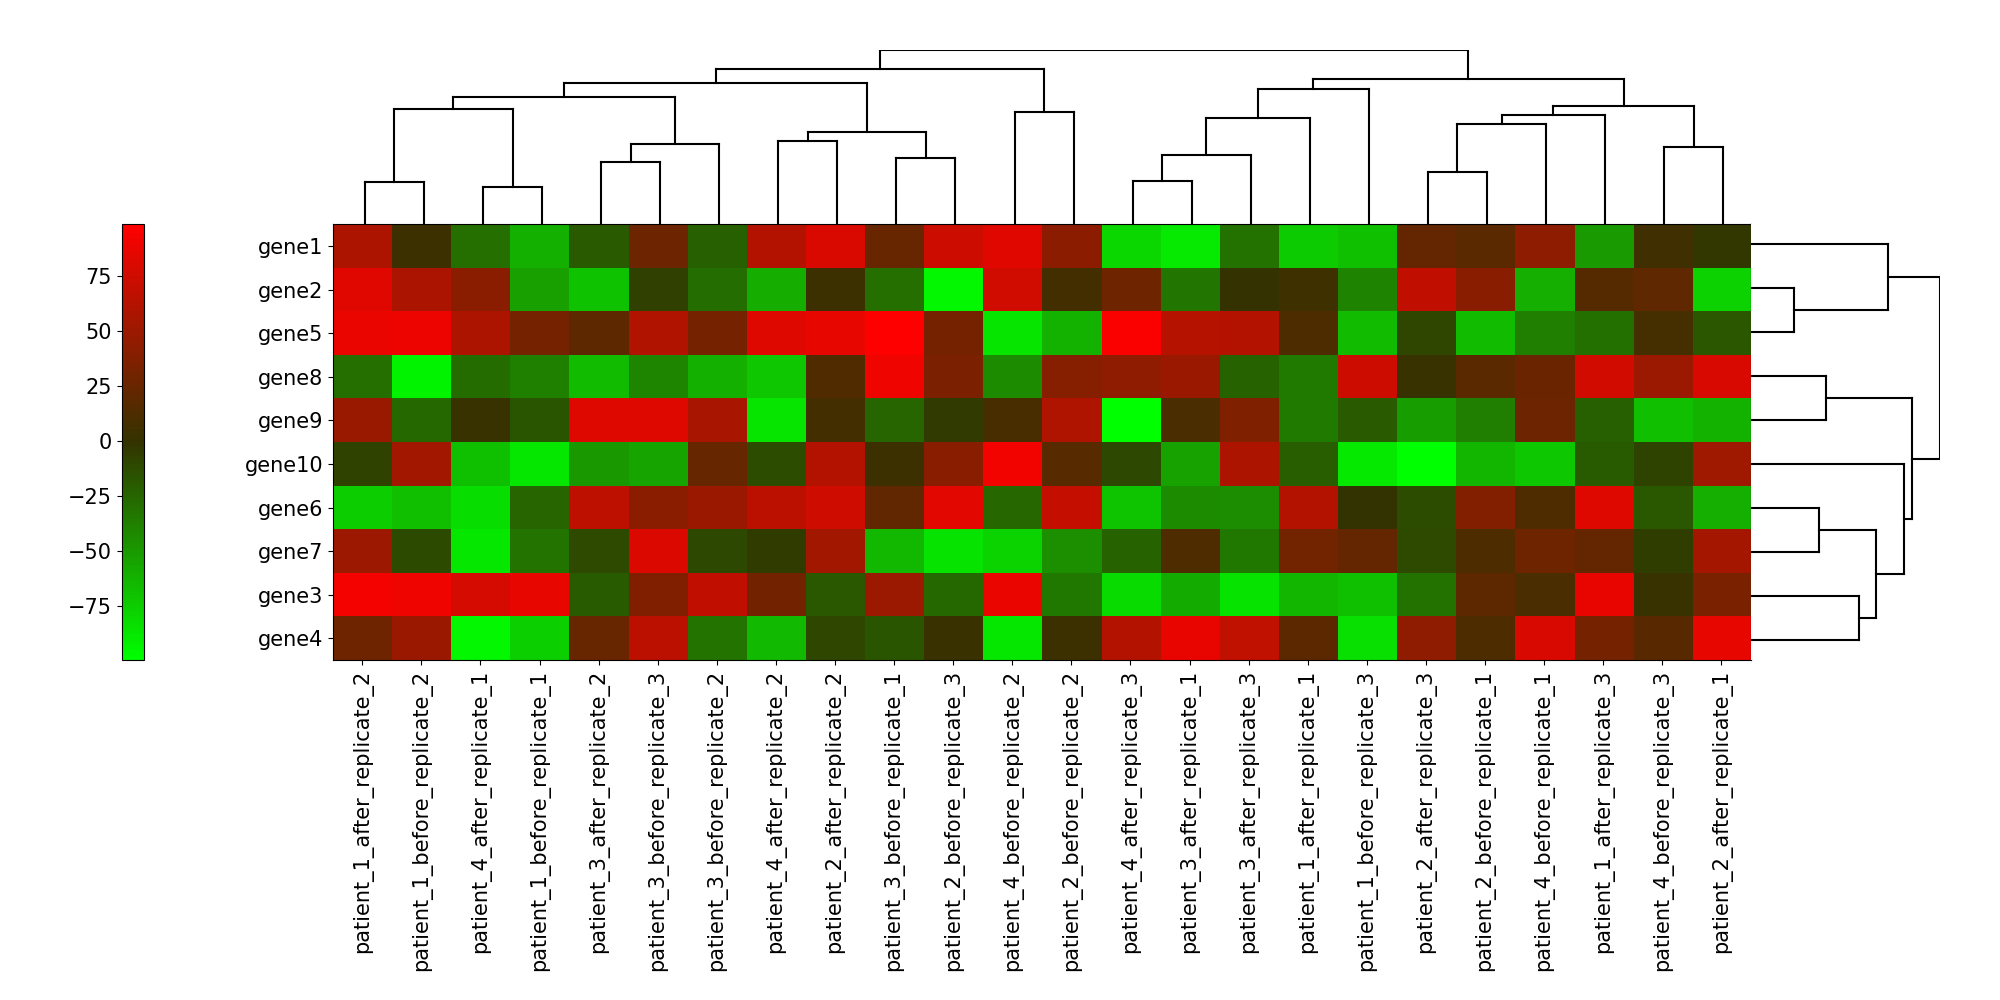
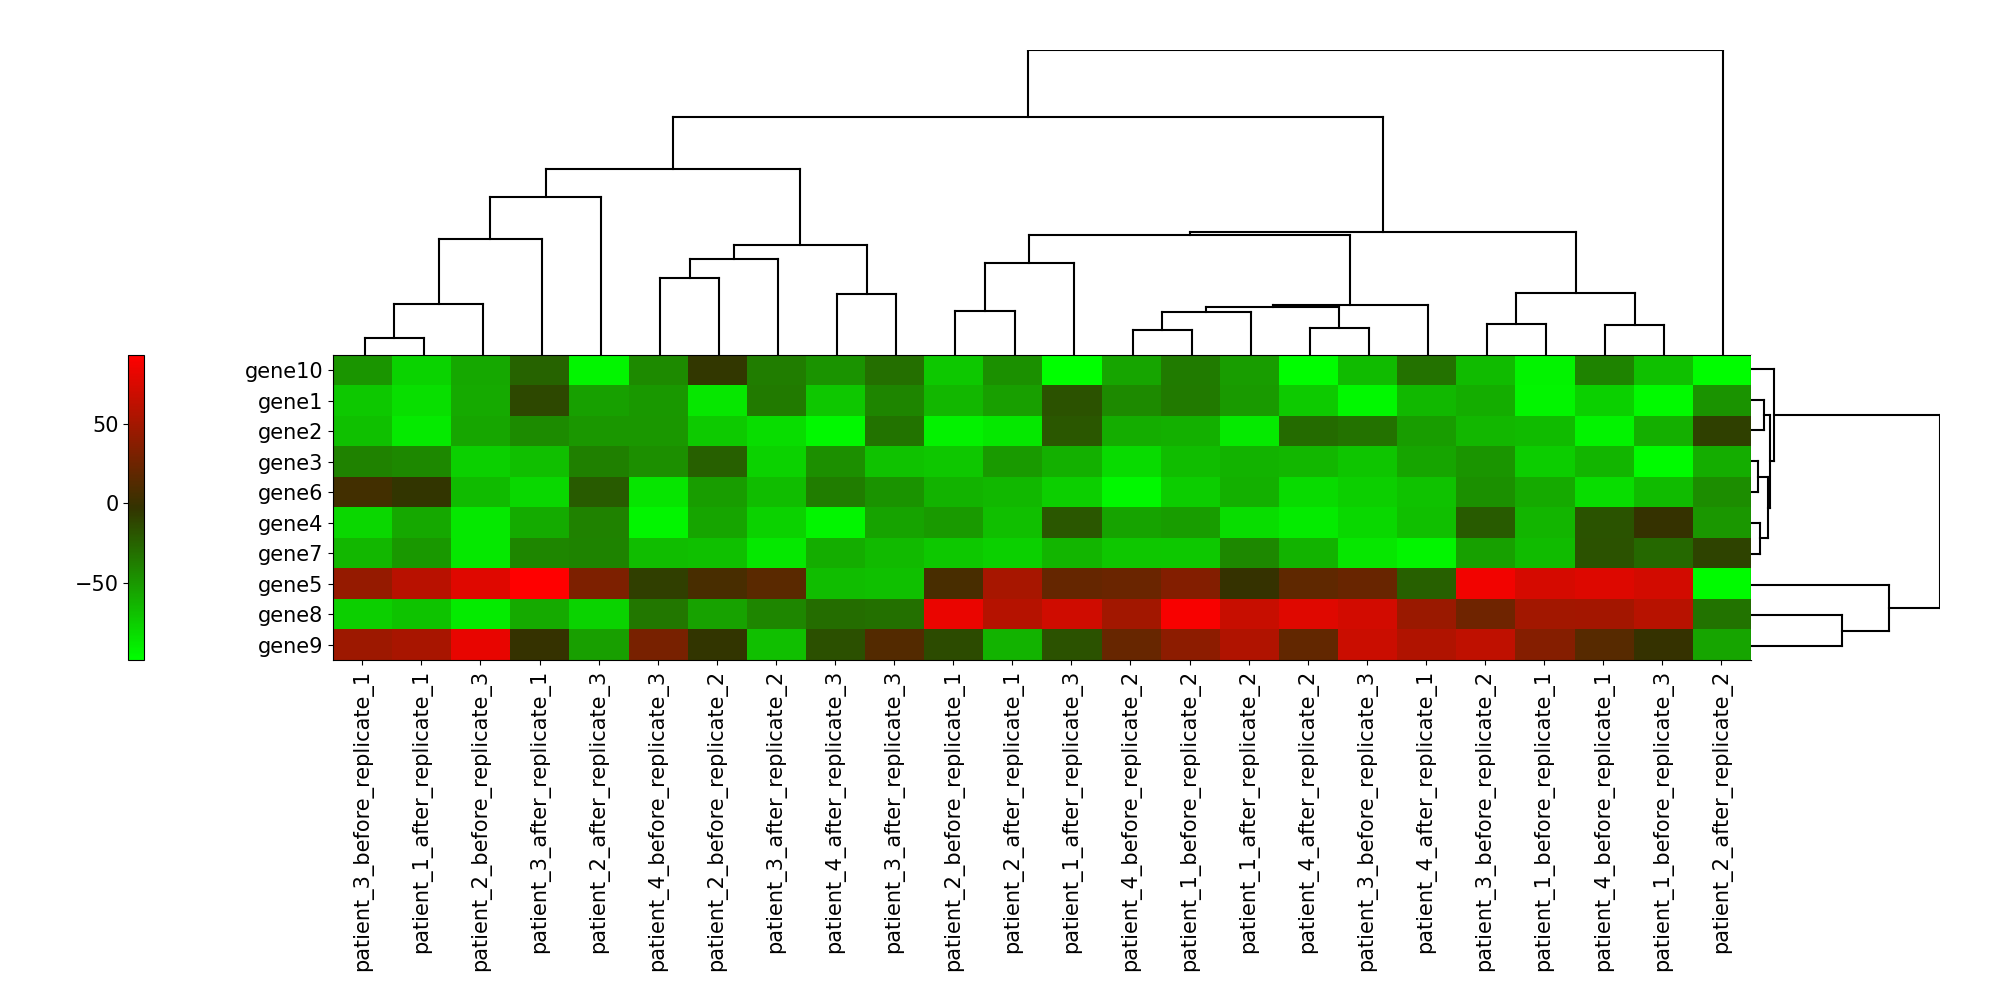
Corrected gene data simulation, now normal distributed per gene and not per patient Also the diseased genes are selected randomly Added PATIENTS and REPLICATES count

diff --git a/SL.py b/SL.py
@@ -11,6 +11,8 @@ import math
 import numpy as np
 
 GENES = 10
+PATIENTS = 4
+REPLICATES = 3
 
 microarray_cmap = LinearSegmentedColormap('microarray', {
     'green': [(0.0, 1.0, 1.0), (0.5, 0.2, 0.2), (1.0, 0.0, 0.0)],
@@ -27,19 +29,40 @@ def main():
     """
 
     #  simulate data
-    # np.random.seed(2139315)
     np.random.seed(1)
-    simDataPatient = {"patient_%d_%s_replicate_%d" % (i//6+1, ["before", "after"][i//3%2], i%3+1): getRandoms() for i in range(24)}
 
-    # simDataPatient contains per patient gene values in order [gene1, gene2, gene3...], so simDataGenes gets per gene the values of its index
-    simDataGenes = {key: value[0] for key, value in zip(["gene%d" % i for i in range(1, GENES+1)], zip(simDataPatient.values()))}
+    # generate random values for each gene
+    simDataGenes = {}
+    cancerGenes = np.random.randint(GENES, size=GENES // 3)
+    for g in range(1, GENES+1):
+        if g in cancerGenes:
+            simDataGenes["gene%d" % g] = getRandoms(30, 70, PATIENTS * REPLICATES * 2)
+        else:
+            simDataGenes["gene%d" % g] = getRandoms(-70, 30, PATIENTS * REPLICATES * 2)
+
+    # simDataGenes contains per gene values in order [patient_1_before..., patient_1_after..., ...], so simDataPatient gets per patient the values of its index
+    patientData = list(zip(*simDataGenes.values()))  # transpose
+
+    simDataPatient = {}
+    for p in range(1, 5):
+        for r in range(1, 4):
+            before, after = np.array(patientData[(p-1)*6 + 2 * r - 2]), np.array(patientData[(p-1)*6 + 2 * r - 1])
+
+            # check if data makes sense (if healthy before, it shouldn't be diseased after)
+            for i in range(10):
+                if after[i] > 0 and before[i] <= 0:
+                    after[i] = -after[i]
+                    simDataGenes["gene%d" % (i+1)][(p-1) * (r-1)] = after[i]
+
+            simDataPatient["patient_%d_after_replicate_%d" % (p, r)] = after
+            simDataPatient["patient_%d_before_replicate_%d" % (p, r)] = before
 
     # calc correlations
     corrMatPatient = calcCorrMat(simDataPatient)
     corrMatGenes = calcCorrMat(simDataGenes)
 
     # gridspec is necessary to adjust the distances between plots, so the dendograms can fit to the borders of the heatmap
-    specs = GridSpec(2, 2, width_ratios=[1, .1], height_ratios=[.2, .5], wspace=0.0, hspace=0, top=0.95, bottom=0.34, left=-.07, right=.97)
+    specs = GridSpec(2, 2, width_ratios=[1, .1], height_ratios=[.5, .5], wspace=0, hspace=0.0, top=0.95, bottom=0.34, left=-.07, right=.97)
 
     fig = plot.figure(figsize=(20, 10))
     plots = [plot.subplot(specs[0, 0]), plot.subplot(specs[1, 0]), plot.subplot(specs[1, 1])]
@@ -47,7 +70,7 @@ def main():
 
     # clustering and plotting the patients' dendogram to the top -> topDendo
     newickPat, depth = WPGMA(corrMatPatient)
-    labels = treeNewick(newickPat + ";", topDendo, root_loc="top", leafLabels=False, showScale=False)
+    labels = treeNewick(newickPat + ";", topDendo, root_loc="top", leafLabels=True, showScale=False)
 
     # now get the keys and values from simDataPatient sorted by the labels to fit to the dendogram
     keys, values = simDataPatient.keys(), simDataPatient.values()
@@ -80,13 +103,13 @@ def main():
     plot.savefig("trees.png")
 
 
-def getRandoms(num=GENES) -> 'list of floats':
+def getRandoms(mean, stddev, num) -> 'list of floats':
     """
     Generates num random values between +-100
     """
     res = np.array([])
     while len(res) < num:
-        random = np.random.normal(0, 100)
+        random = np.random.normal(mean, stddev)
         if abs(random) <= 100:
             res = np.append(res, random)
     return res
@@ -218,14 +241,14 @@ def treeNewick(newick: str, plot, root_loc="left", leafLabels=True, showScale=Tr
 
             # splitIndex is now the index of the comma after the tree or (if no comma there) the last bracket's index
 
-            if newick[splitIndex] == ")":  # if it's sth. like (subTree)C:1            -> root-drawing (horizontal)
+            if newick[splitIndex] == ")":  # if it's sth. like (subTree)C:1             -> root-drawing (horizontal)
                 label, length = newick[splitIndex+1:].split(":")
                 kwargs["treeDepth"], kwargs["lowestLeaf"], myPosY = recursive(newick[1: splitIndex], plot, x + float(length), **kwargs)
                 # if nodeLabels:
                 #    plot.text(x + float(length), myPosY, " " + label)
                 draw([x, x + float(length)], [myPosY, myPosY], treeColor=treeColor)
 
-            else:  # if it's sth. like (subTree)R:1,(subTree)Q:1                       -> connection (vertical)
+            else:  # if it's sth. like (subTree)R:1,(subTree)Q:1                        -> connection (vertical)
                 upper, lower = newick[:splitIndex], newick[splitIndex+1:]
                 kwargs["treeDepth"], kwargs["lowestLeaf"], upperPos = recursive(upper, plot, x, **kwargs)
                 kwargs["treeDepth"], kwargs["lowestLeaf"], lowerPos = recursive(lower, plot, x, **kwargs)
